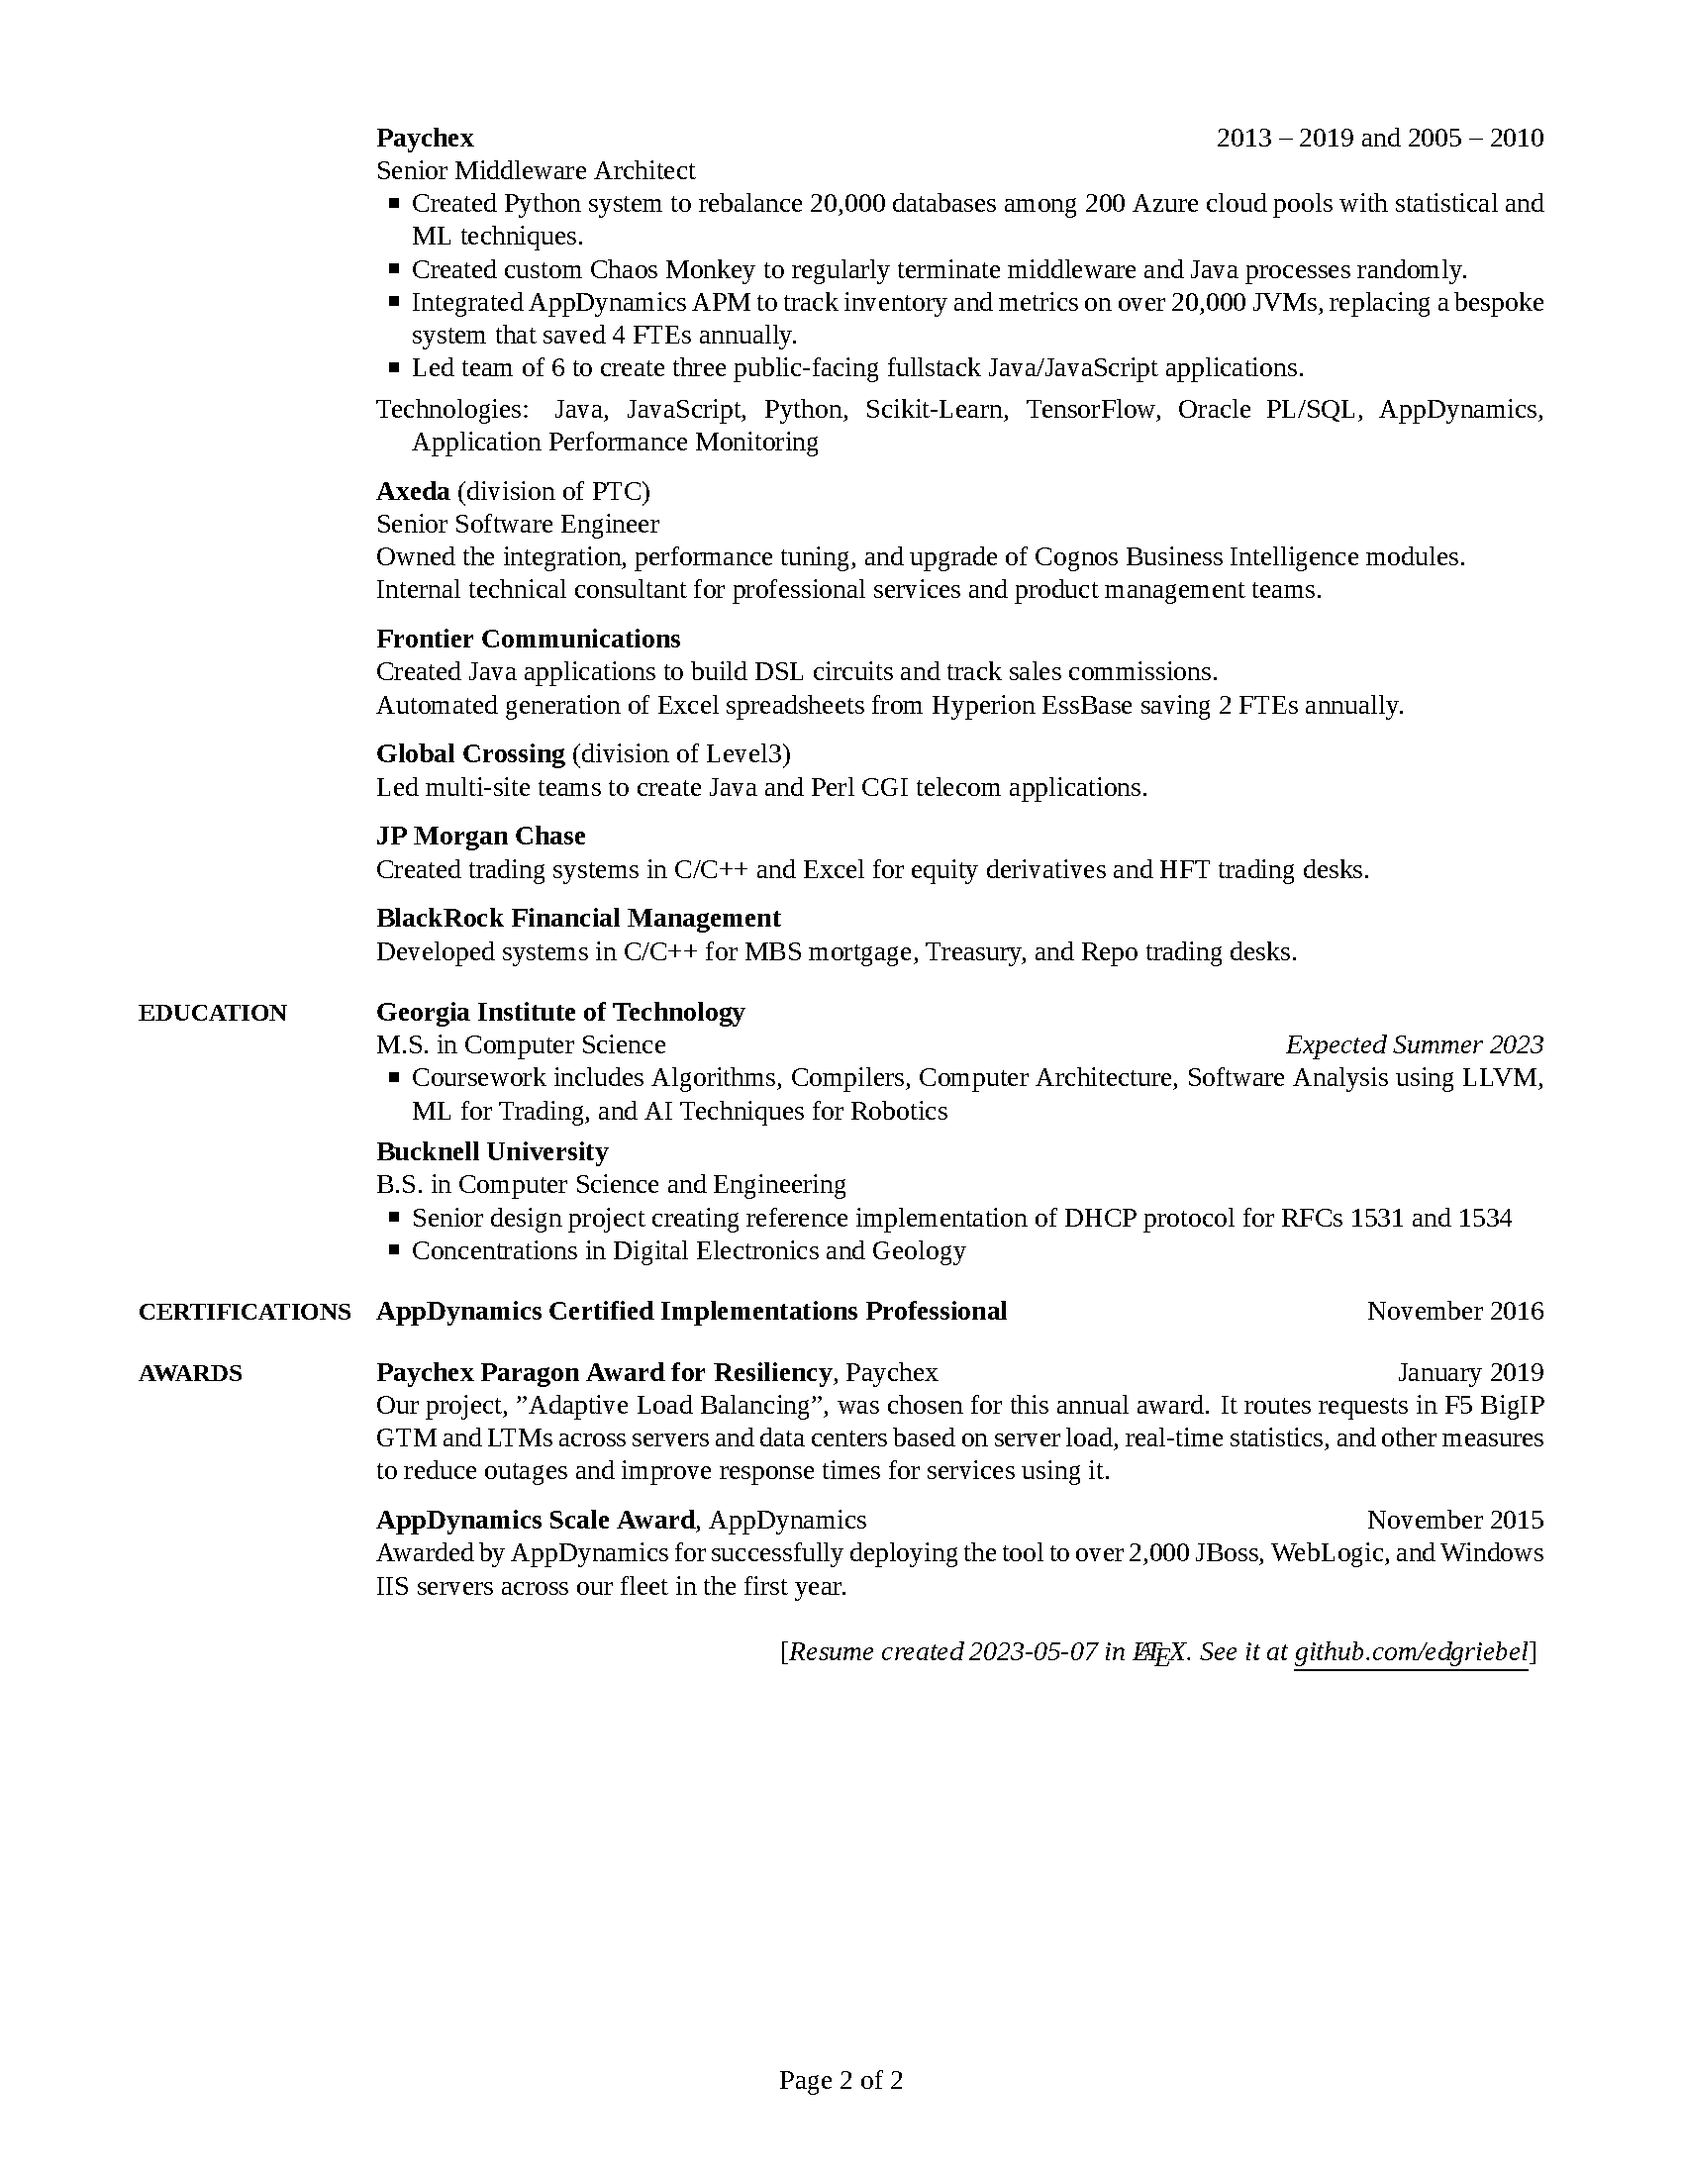
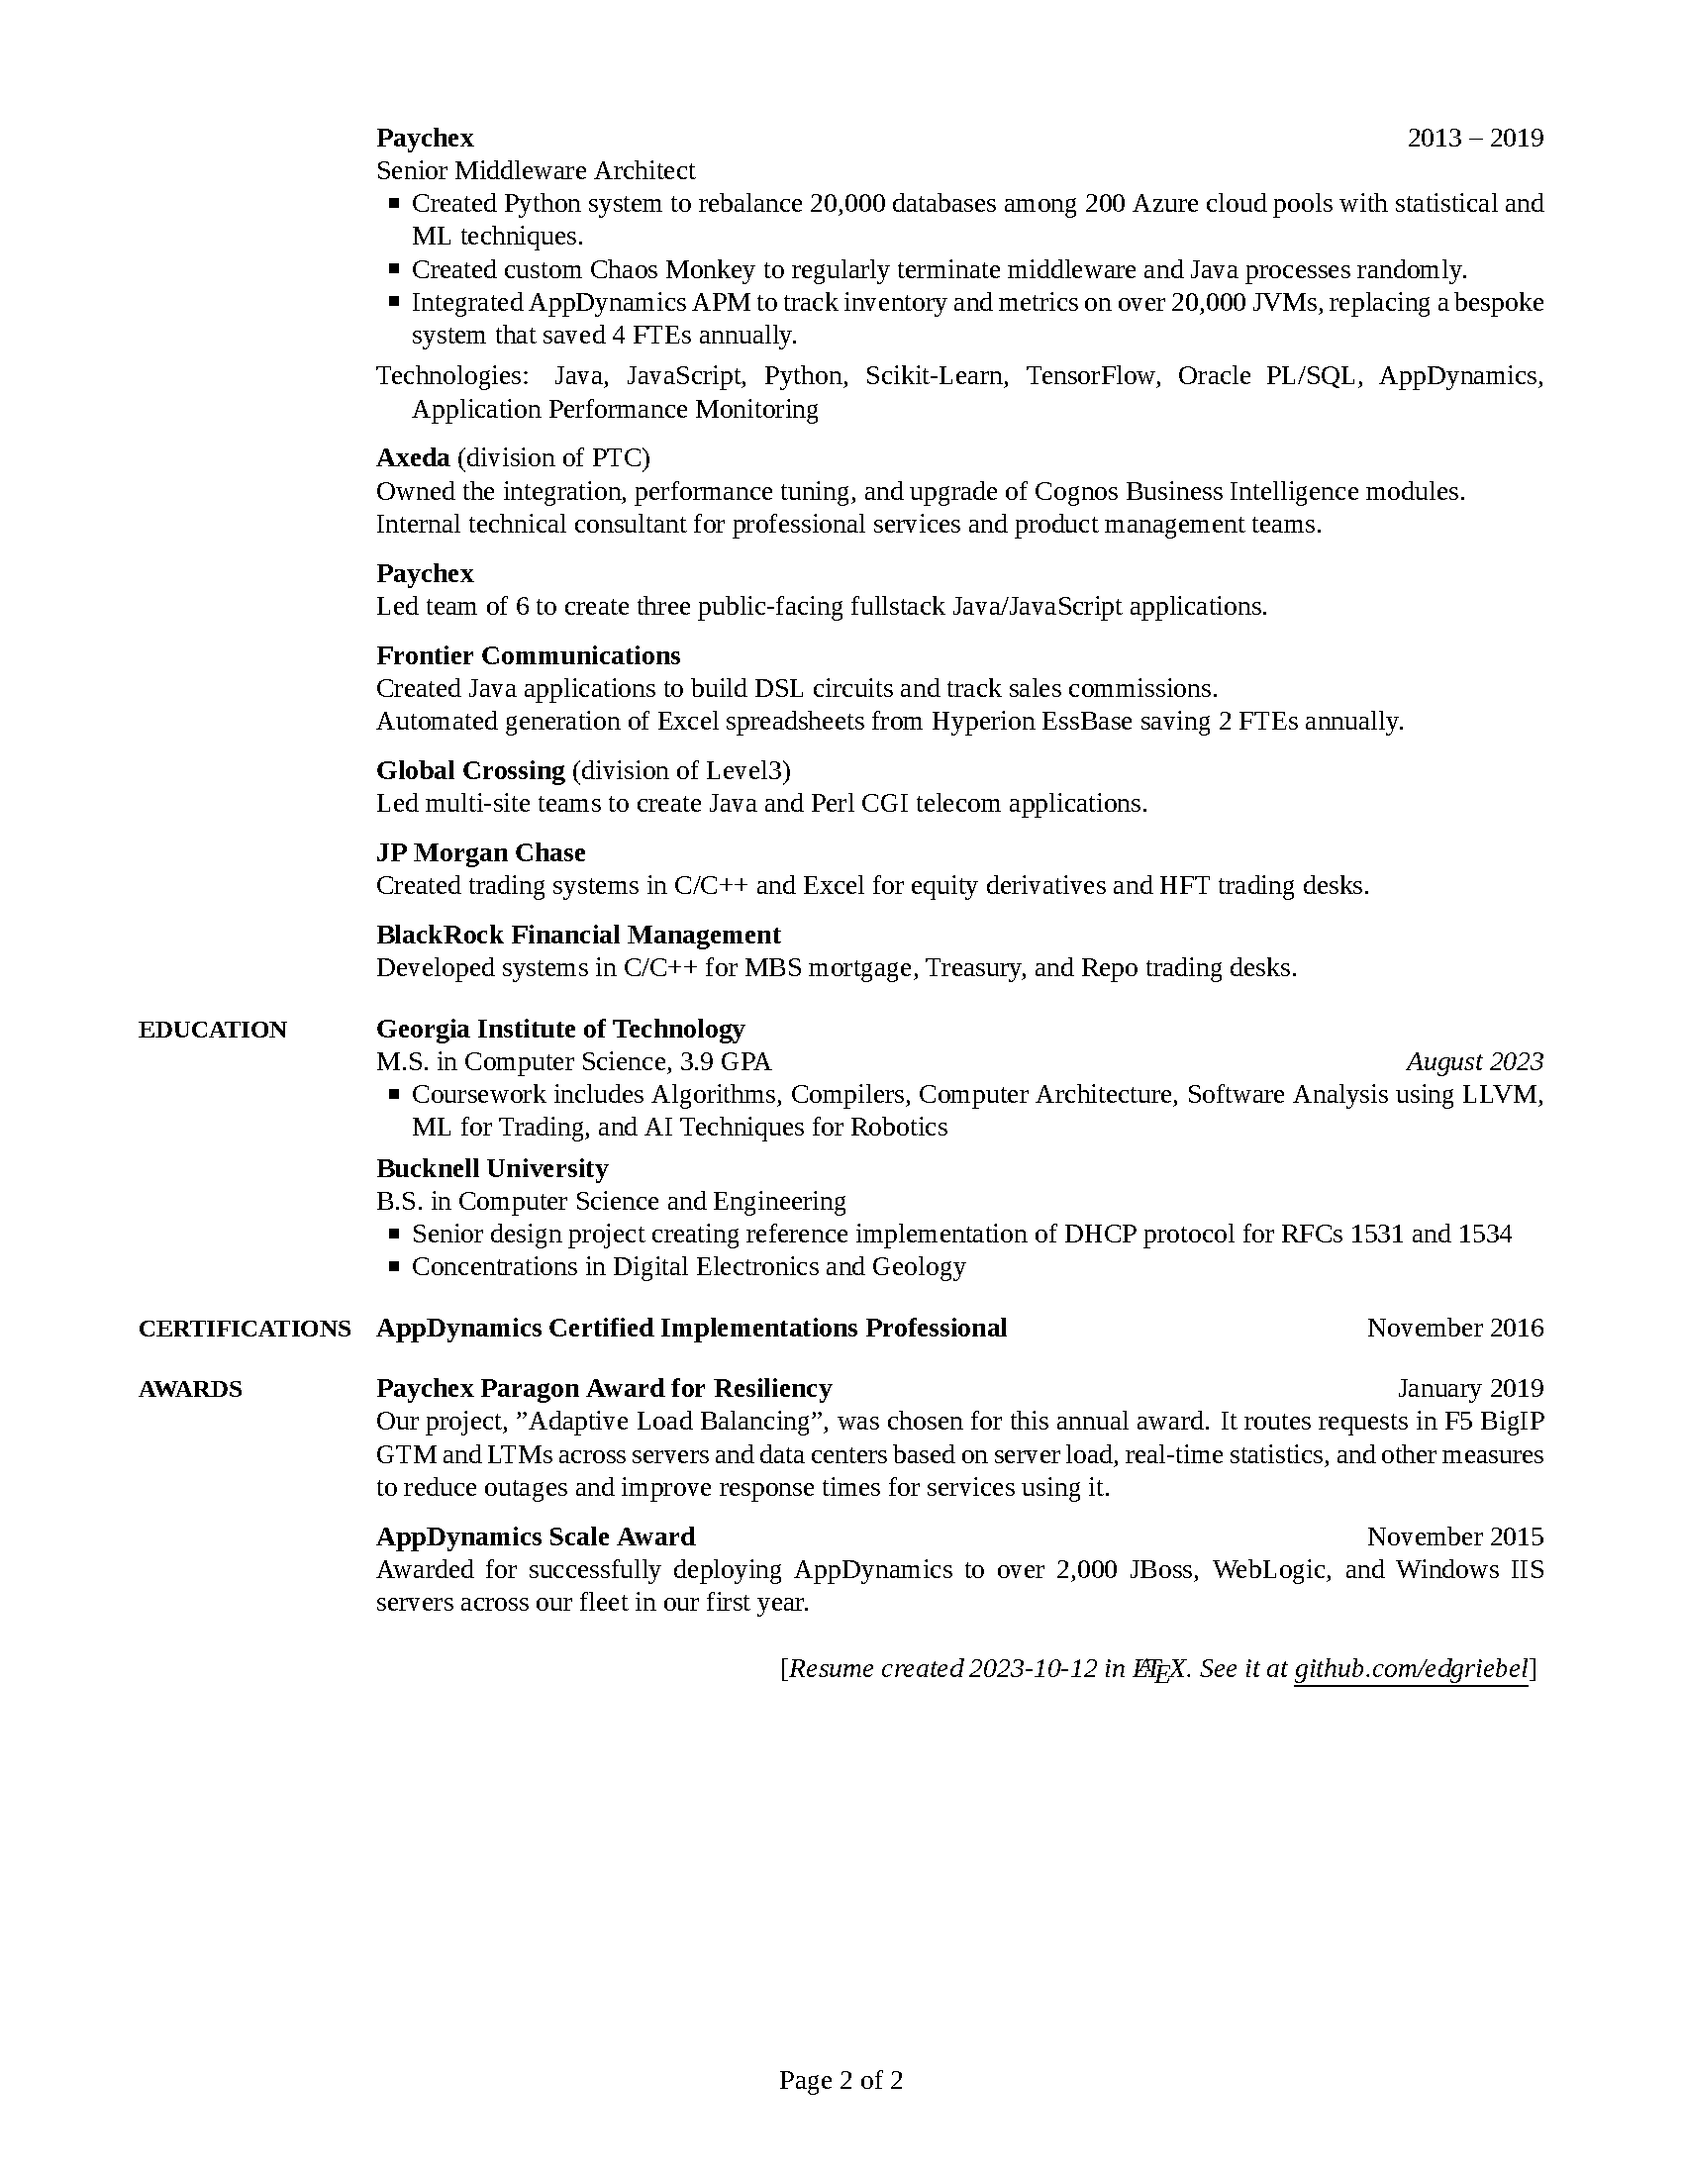
Tweaked Awards, re-split Paychex, ended Meta, tweaked top

diff --git a/Ed_Griebel_CV.tex b/Ed_Griebel_CV.tex
@@ -115,7 +115,8 @@ breaklinks}
 %% -- ChatGPT
 As an accomplished full stack developer with more than 20 years of consistent success across multiple industries and diverse languages and tools, I am deeply passionate about writing code and collaborating with others to design and deliver innovative systems that address complex business challenges. 
 
-Leveraging 7 years of remote experience, I excel in working effectively in both remote and on-site environments, as well as hybrid work arrangements.
+\Gap
+With 7 years of remote experience I excel in working effectively in remote, hybrid, and onsite environments.
 %% -- ChatGPT
 
 
@@ -125,7 +126,7 @@ Full Stack/Backend Java architect, developer, and consultant, specializing in Ja
 solutions and integrations.
 \fi
 \Gap
-Advanced or Expert knowledge of: Python, Java, SQL, Linux, Agile team leadership, Mentoring
+Advanced or Expert knowledge of Python, Java, SQL, Linux, Agile team leadership, and Mentoring.
 
 %%%%%%%%%%%%%%%%%%%%%%%%%%%%%%%%%%
 %% PROFESSIONAL WORK EXPERIENCE %%
@@ -138,11 +139,35 @@ Work Experience}
 {PDF:ProfessionalWorkExperience}
 
 \Entry
+\href{http://ist.rit.edu/}
+{\textbf{Rochester Institute of Technology}}
+\hfill
+%% \DatestampYM{2017}{08} --
+\DatestampY{2017} --
+Present
+
+%%\Gap
+%%\BulletItem
+Adjunct Professor -- Part-Time
+\ifLOCATION
+\hfill 
+Rochester, New York
+\fi
+
+\begin{Detail}
+\BulletItem
+Currently teaching course in software engineering practices used in industry.
+\BulletItem
+Previously taught courses in Java and DBMS/SQL.
+\end{Detail}
+
+\BigGap
+
+\Entry
 \href{https://engineering.fb.com/category/production-engineering/}
 {\textbf{Meta (Facebook)}}
 \hfill
-\DatestampYM{2021}{08} --
-Present
+\DatestampYM{2021}{08} -- \DatestampYM{2023}{07}
 
 %%\Gap
 %%\BulletItem
@@ -156,9 +181,7 @@ who create reliable, scalable, performant, and secure services for billions of u
 
 \Gap
 
-My team, Ads Serving and Delivery, automates the dynamic allocation of Machine Learning models to compute servers for all ads displayed in Facebook and Instagram.
-
-%% A key part of being a senior engineer is responsibility for determining scope, driving o
+My most recent team, Ads Serving and Delivery, automates the dynamic allocation of Machine Learning models to compute servers for all ads displayed in Facebook and Instagram.
 
 \BulletItem
 %% Lead project to implement centralized configuration changes to AI models in Facebook ad delivery stack. Effort involved identifying problematic areas and user education while ensuring these changes resulted in zero downtime or other negative impacts to ads serving stack.
@@ -193,52 +216,6 @@ Technologies: Python, Rust, SQL, Terraform
 \BigGap
 
 \Entry
-\href{http://ist.rit.edu/}
-{\textbf{Rochester Institute of Technology}}
-\hfill
-%% \DatestampYM{2017}{08} --
-\DatestampY{2017} --
-Present
-
-%%\Gap
-%%\BulletItem
-Adjunct Professor -- Part-Time
-\ifLOCATION
-\hfill 
-Rochester, New York
-\fi
-
-\begin{Detail}
-\BulletItem
-Currently teaching course in software engineering practices used in industry.
-\BulletItem
-Previously taught courses in Java and DBMS/SQL.
-\end{Detail}
-
-\BigGap
-
-\Entry
-\href{http://logicalopertions.com/}
-{\textbf{Logical Operations}}
-\hfill
-Periodically since \DatestampY{2020}
-
-%%\Gap
-%%\BulletItem
-Consultant -- Part-Time
-\ifLOCATION
-\hfill 
-Rochester, New York
-\fi
-
-\begin{Detail}
-\BulletItem
-Created teaching materials and was consulted for new courses in Machine Learning, Artificial Intelligence, and Data Science.
-\end{Detail}
-
-\BigGap
-
-\Entry
 \href{https://www.marqeta.com}
 {\textbf{Marqeta Inc.}}
 \hfill
@@ -262,6 +239,27 @@ Established/enhanced processes and procedures for product development and suppor
 \Gap
 Technologies: Java, MySQL, Spring Boot, Docker
 
+\end{Detail}
+
+\BigGap
+
+\Entry
+\href{http://logicalopertions.com/}
+{\textbf{Logical Operations}}
+\hfill
+Occasionally since \DatestampY{2020}
+
+%%\Gap
+%%\BulletItem
+Consultant -- Part-Time
+\ifLOCATION
+\hfill 
+Rochester, New York
+\fi
+
+\begin{Detail}
+\BulletItem
+Created teaching materials and was consulted for new courses in Machine Learning, Artificial Intelligence, and Data Science.
 \end{Detail}
 
 \BigGap
@@ -305,7 +303,8 @@ Technologies: Python, Flask, JavaScript, Bootstrap, MySQL, Docker, Elasticsearch
 \href{http://www.paychex.com}
 {\textbf{Paychex}}
 \hfill
-\DatestampY{2013} -- \DatestampY{2019} and \DatestampY{2005} -- \DatestampY{2010}
+\DatestampY{2013} -- \DatestampY{2019}
+%% \DatestampY{2013} -- \DatestampY{2019} and \DatestampY{2005} -- \DatestampY{2010}
 
 Senior Middleware Architect
 \ifLOCATION
@@ -332,9 +331,6 @@ Created custom Chaos Monkey to regularly terminate middleware and Java processes
 \BulletItem
 Integrated AppDynamics APM to track inventory and metrics on over 20,000 JVMs, replacing a bespoke system that saved 4 FTEs annually.
 
-\BulletItem
-Led team of 6 to create three public-facing fullstack Java/JavaScript applications.
-
 \Gap
 Technologies: Java, JavaScript, Python, Scikit-Learn, TensorFlow, Oracle PL/SQL, AppDynamics, Application Performance Monitoring
 \fi
@@ -351,7 +347,7 @@ Technologies: Java, JavaScript, Python, Scikit-Learn, TensorFlow, Oracle PL/SQL,
 
 %%\Gap
 %%\BulletItem
-Senior Software Engineer
+%% Senior Software Engineer
 \ifLOCATION
 \hfill
 Rochester, New York
@@ -369,6 +365,16 @@ Internal technical consultant for professional services and product management t
 %% \Gap
 %% Technologies: Java, JavaScript, Oracle PL/SQL, Hudson/Jenkins, Cognos, Business Intelligence
 \end{Detail}
+
+\BigGap
+\Entry
+\textbf{Paychex}
+\hfill
+
+\begin{Detail}
+Led team of 6 to create three public-facing fullstack Java/JavaScript applications.
+\end{Detail}
+
 
 \ifLONG
 %% \BigGap
@@ -606,9 +612,9 @@ Developed systems in C/C++ for MBS mortgage, Treasury, and Repo trading desks.
 \href{https://gatech.edu}
 {\textbf{Georgia Institute of Technology}}
 
-M.S. in Computer Science
+M.S. in Computer Science, 3.9 GPA
 \hfill 
-\textit{Expected Summer 2023}
+\textit{August 2023}
 
 \BulletItem
 %% Concentrations in Computing Systems and Machine Learning
@@ -762,7 +768,7 @@ As a Java team lead, I was responsible for a small team of developers. Since thi
 {Awards}
 {Awards}
 {PDF:Awards}
-\textbf{Paychex Paragon Award for Resiliency}, Paychex
+\textbf{Paychex Paragon Award for Resiliency}
 \hfill
 \DatestampYM{2019}{01}
 \begin{Detail}
@@ -772,12 +778,12 @@ It routes requests in F5 BigIP GTM and LTMs across servers and data centers base
 \end{Detail}
 \BigGap
 
-\textbf{AppDynamics Scale Award}, AppDynamics
+\textbf{AppDynamics Scale Award}
 \hfill
 \DatestampYM{2015}{11}
 \begin{Detail}
 %% Awarded by AppDynamics to the company that was able to quickly deploy the AppDynamics tool across the most complex environment. 
-Awarded by AppDynamics for successfully deploying the tool to over 2,000 JBoss, WebLogic, and Windows IIS servers across our fleet in the first year.
+Awarded for successfully deploying AppDynamics to over 2,000 JBoss, WebLogic, and Windows IIS servers across our fleet in our first year.
 \end{Detail}
 
 %%%%%%%%%%%%%%%%%%
